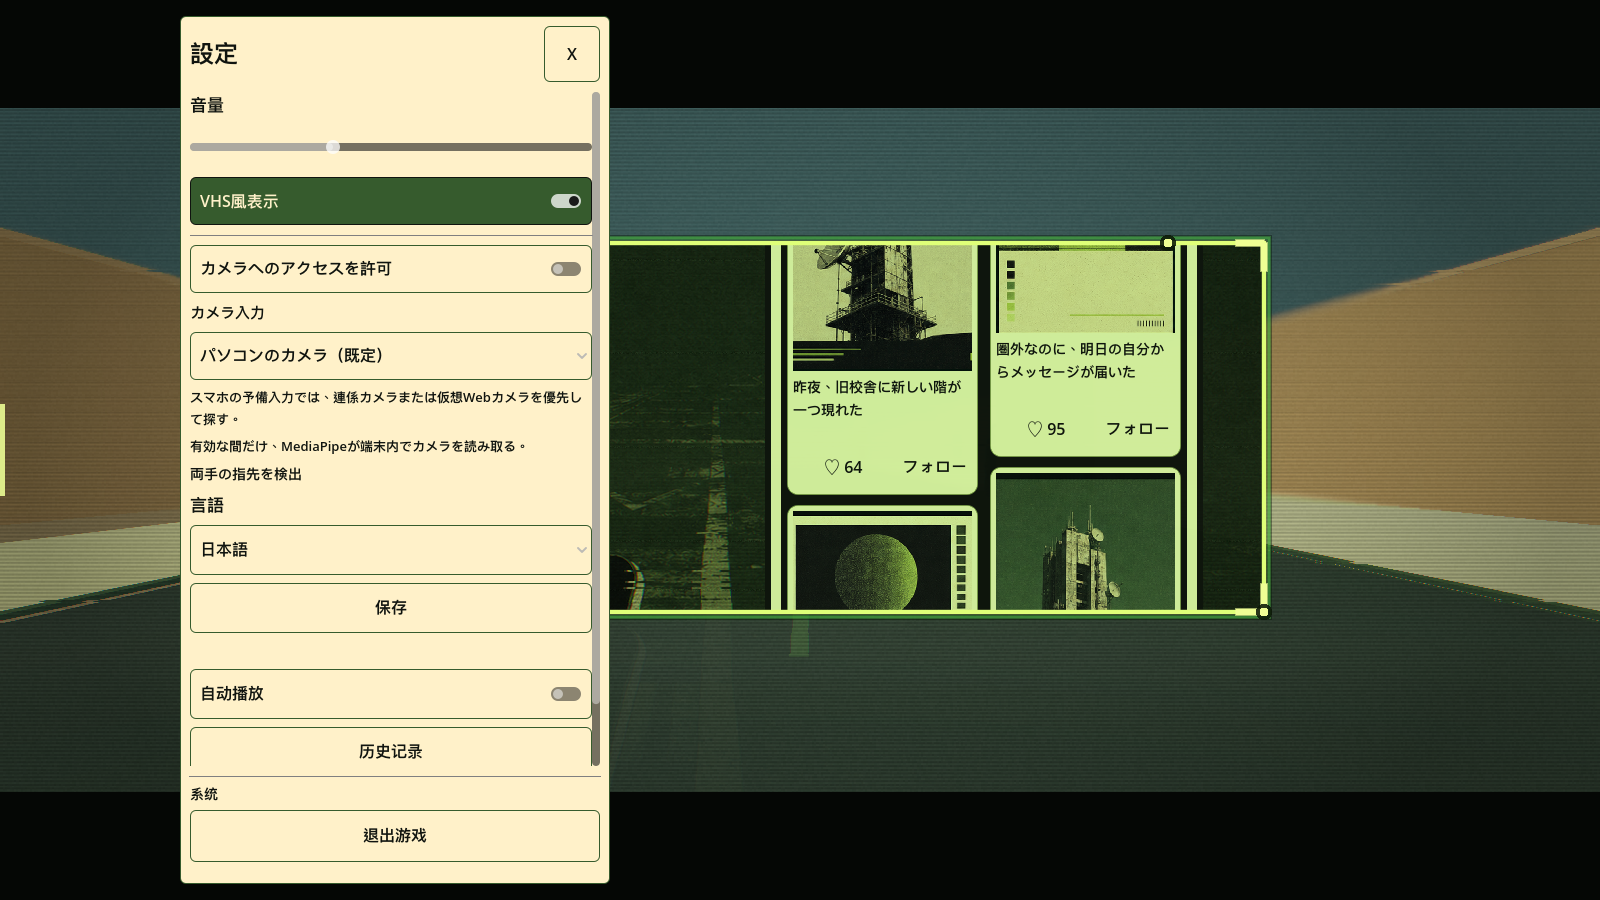
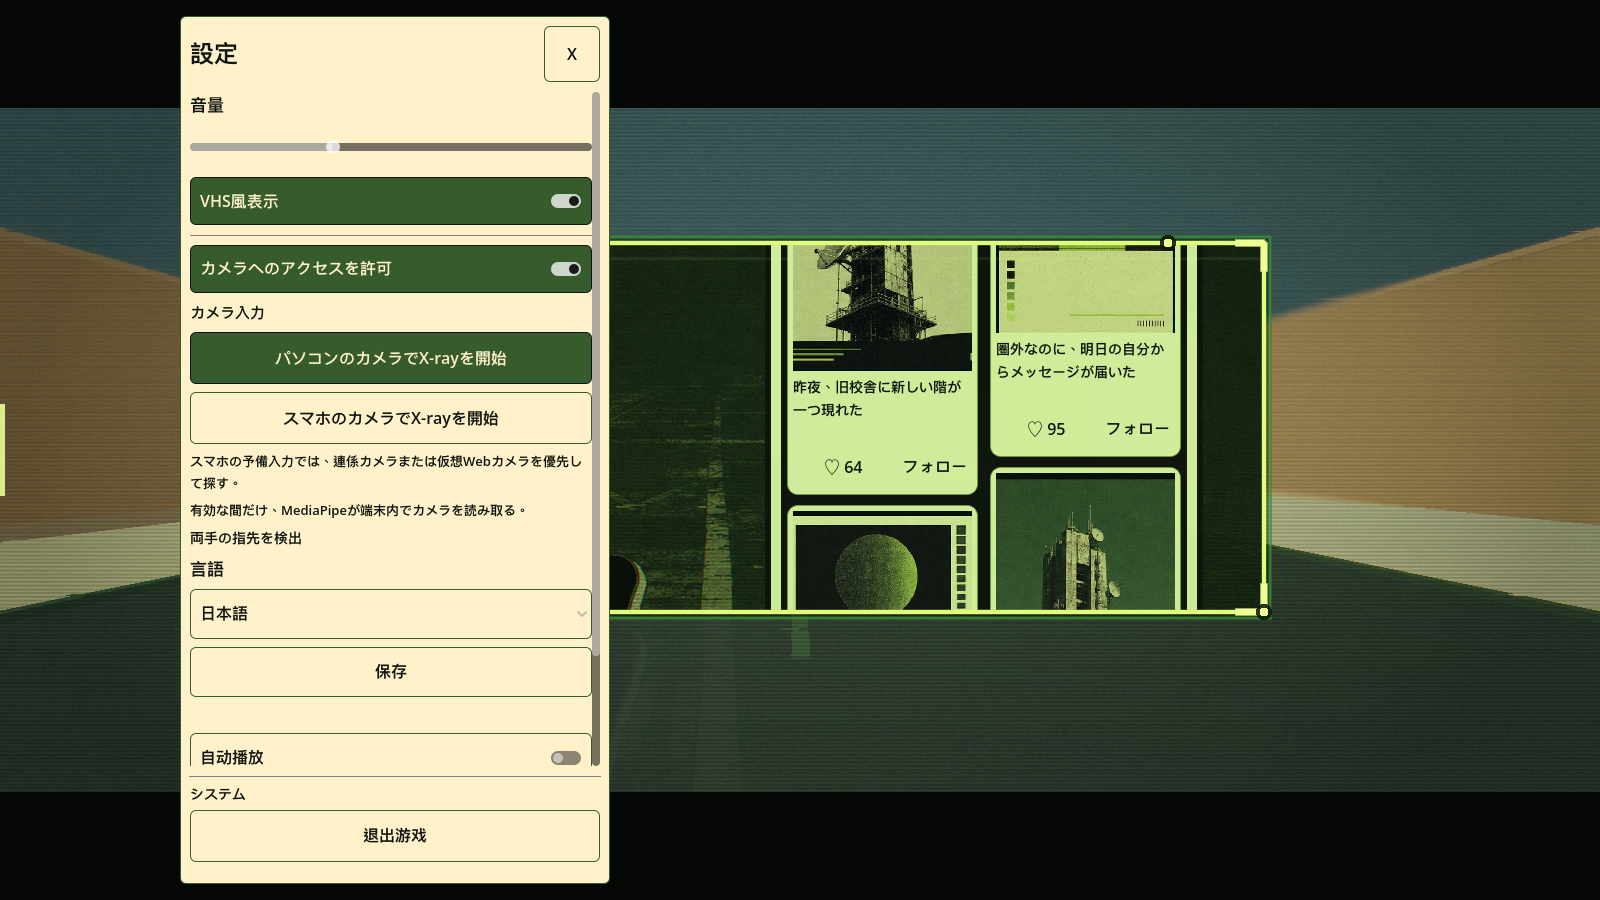
Refine camera source controls and settings evidence

diff --git a/docs/prototypes/hand_xray_camera_mvp.md b/docs/prototypes/hand_xray_camera_mvp.md
@@ -11,7 +11,8 @@
 - UDP 只发送归一化关键点，不发送、保存或上传摄像头画面。
 - 四个指尖（双手拇指尖、食指尖）的包围盒形成稳定 X-ray 区域。
 - Godot 在从手机层切到现实层前缓存当前合成画面，并只在指尖矩形中裁切显示。
-- 每次启动先明确询问是否启用镜头；设置中可随时允许或关闭。
+- 每次启动先明确询问是否启用镜头；设置中提供“电脑摄像头”和“连接手机”两个直接入口，并保留一个许可总开关。
+- X-ray 边框有克制的呼吸辉光、扫描线和沿框微光点，不干扰四个指尖锚点。
 - 无镜头时可用 sidecar 的 `--simulate` 走完全相同的数据协议验证。
 
 ## 明确不做
@@ -35,7 +36,7 @@ bash tools/hand_tracking/setup_macos.sh
 /Users/zhang/Documents/游戏/Godot_4.6.3/Godot.app/Contents/MacOS/Godot --path .
 ```
 
-进入流程：启动授权页保留“电脑摄像头（默认）”，只有电脑没有镜头时才选“手机摄像头（备用）” → 选择“允许并打开摄像头”或“暂不使用” → 开始/继续游戏 → 在手机层浏览想要保留的画面 → “放下手机” → 将双手拇指尖与食指尖放进镜头并围出矩形。按 `Tab` 或画面底部按钮可在手机层与现实层之间切换；设置中的来源选单与“允许访问摄像头”可随时切换/关闭；主菜单/设置中的退出按钮可退出。
+进入流程：启动授权页保留“电脑摄像头（默认）”，只有电脑没有镜头时才选“手机摄像头（备用）” → 选择“允许并打开摄像头”或“暂不使用” → 开始/继续游戏 → 在手机层浏览想要保留的画面 → “放下手机” → 将双手拇指尖与食指尖放进镜头并围出矩形。按 `Tab` 或画面底部按钮可在手机层与现实层之间切换；设置中的“打开电脑摄像头并开启 X-ray”与“连接手机摄像头并开启 X-ray”两个按钮可直接切换来源，“允许访问摄像头”是总开关；主菜单/设置中的退出按钮可退出。X-ray 边框使用轻微呼吸光、稀疏扫描线和沿框微光点，不改变指尖定位几何。
 
 本机枚举结果：`camera index 0 = MacBook Pro 相机`，`camera index 1 = iPhone17,1 连续互通相机`，两者均通过 `1280×720` 单帧读取测试。sidecar 在 macOS 上使用 `system_profiler SPCameraDataType` 的设备型号区分电脑与手机，因此不会因为手机恰好在线就把它误当作默认电脑镜头。
 
